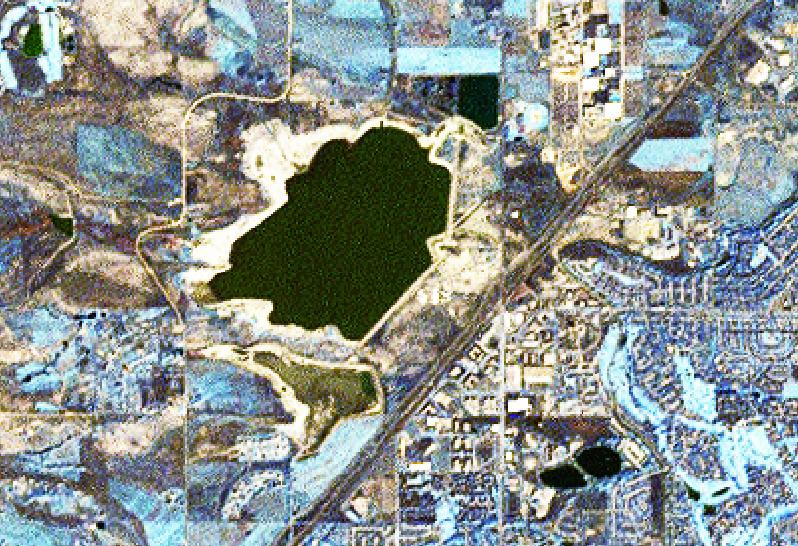
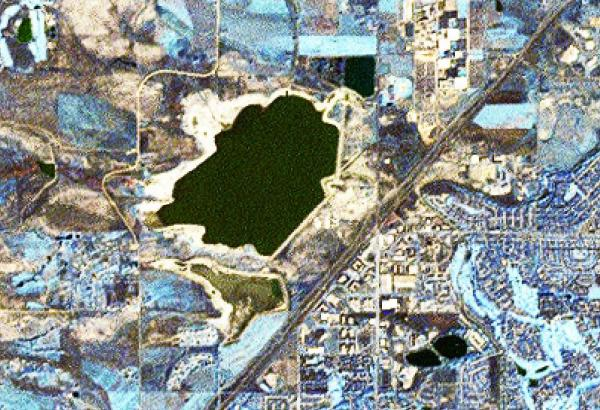
i.pansharpen: fix r.colors call; HTML cosmetics; shrink screenshots to 600px width as per documentation rules
git-svn-id: https://svn.osgeo.org/grass/grass/trunk@67791 15284696-431f-4ddb-bdfa-cd5b030d7da7

diff --git a/scripts/i.pansharpen/i.pansharpen.html b/scripts/i.pansharpen/i.pansharpen.html
@@ -80,6 +80,8 @@ the 3 pan sharpening algorithms differ in terms of spectral response.
 
 <h2>EXAMPLES</h2>
 
+<h3>Pan sharpening comparison example</h3>
+
 Pan sharpening of a Landsat image from Boulder, Colorado, USA:
 
 <div class="code"><pre>
@@ -93,12 +95,14 @@ i.pansharpen red=p034r032_7dt20010924_z13_30 green=p034r032_7dt20010924_z13_20
     blue=p034r032_7dt20010924_z13_10 pan=p034r032_7dp20010924_z13_80 
     output=ihs321 method=ihs
 
+# ... likewise with method=brovey and method=pca
+
 # display at 15m
 g.region raster=ihs321_blue -p
 d.rgb b=ihs321_blue g=ihs321_green r=ihs321_red
 </pre></div>
 
-
+<p>
 <b><em>Results:</em></b>
 
 <p><center>
@@ -139,8 +143,9 @@ d.rgb b=ihs321_blue g=ihs321_green r=ihs321_red
 </center>
 <br>
 
+<h3>Pan sharpening of LANDSAT ETM+ (Landsat 7)</h3>
 
-Example: LANDSAT ETM+ (Landsat 7), North Carolina sample dataset:
+LANDSAT ETM+ (Landsat 7), North Carolina sample dataset:
 
 <div class="code"><pre>
 # original at 28m

diff --git a/scripts/i.pansharpen/i.pansharpen.py b/scripts/i.pansharpen/i.pansharpen.py
@@ -316,7 +316,7 @@ def main():
     # equalized grey scales give best contrast
     for ch in ['red', 'green', 'blue']:
         grass.run_command('r.colors', quiet=True, map="%s_%s" % (out, ch),
-                          flags="e", col='grey')
+                          flags="e", color='grey')
 
     # Landsat too blue-ish because panchromatic band less sensitive to blue
     # light, so output blue channed can be modified
